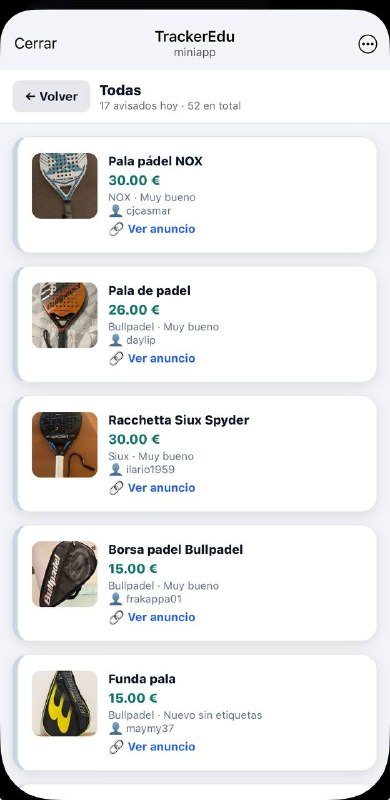
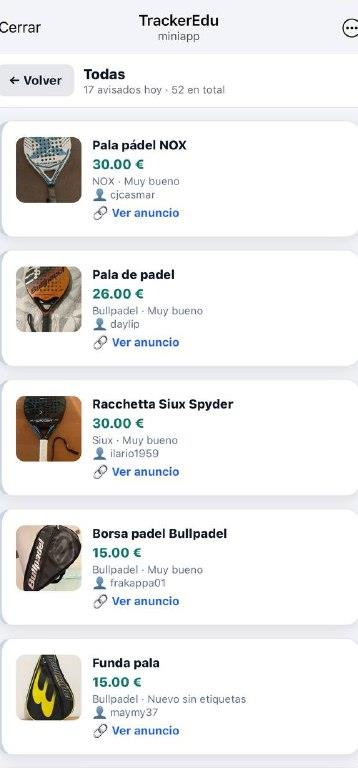
Web: demo bot sin esquinas negras (capturas recortadas) + ?v=2

Changed region(s): [[0.0, 0.0, 1.0, 1.0]]

diff --git a/index.html b/index.html
@@ -372,7 +372,7 @@
           <div class="demo-phone">
             <div class="demo-cam"></div>
             <div class="demo-screen">
-              <img class="demo-img" src="img/demo/trackeredu-3.jpg" alt="TrackerEdu — gestor de alertas" loading="lazy">
+              <img class="demo-img" src="img/demo/trackeredu-3.jpg?v=2" alt="TrackerEdu — gestor de alertas" loading="lazy">
               <div class="demo-fallback" hidden>
                 <span>📱</span>
                 <p>Coloca aquí las capturas en <code>img/demo/trackeredu-N.png</code></p>
@@ -380,15 +380,15 @@
             </div>
           </div>
           <div class="demo-steps">
-            <button class="demo-step active" data-img="img/demo/trackeredu-3.jpg" data-alt="Gestor de alertas">
+            <button class="demo-step active" data-img="img/demo/trackeredu-3.jpg?v=2" data-alt="Gestor de alertas">
               <span class="demo-step-n">1</span>
               <div><b>Gestiona tus alertas</b><small>Crea, edita o borra alertas con filtros de precio, marca, estado y palabras excluidas.</small></div>
             </button>
-            <button class="demo-step" data-img="img/demo/trackeredu-1.jpg" data-alt="Aviso de producto en Telegram">
+            <button class="demo-step" data-img="img/demo/trackeredu-1.jpg?v=2" data-alt="Aviso de producto en Telegram">
               <span class="demo-step-n">2</span>
               <div><b>Te llega el aviso</b><small>Foto, precio, media de mercado, estado, marca, vendedor y descripción (traducida si hace falta).</small></div>
             </button>
-            <button class="demo-step" data-img="img/demo/trackeredu-2.jpg" data-alt="Lista de avisos">
+            <button class="demo-step" data-img="img/demo/trackeredu-2.jpg?v=2" data-alt="Lista de avisos">
               <span class="demo-step-n">3</span>
               <div><b>Todos los avisos</b><small>La lista de productos que han saltado en cada alerta, con acceso directo al anuncio.</small></div>
             </button>
